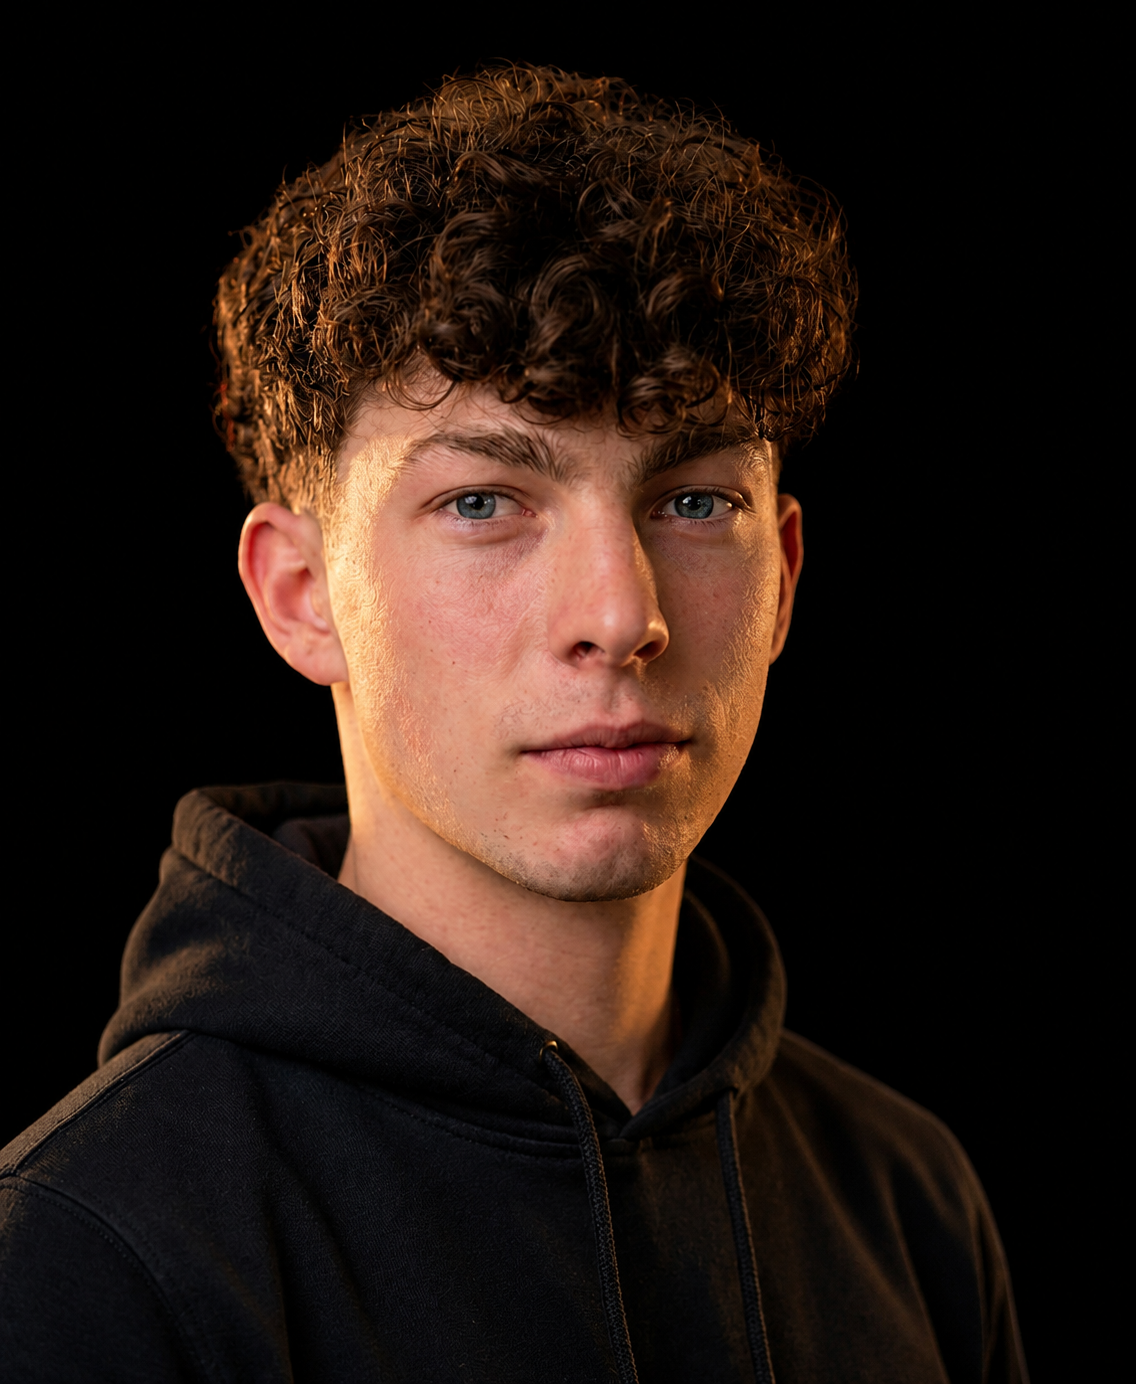
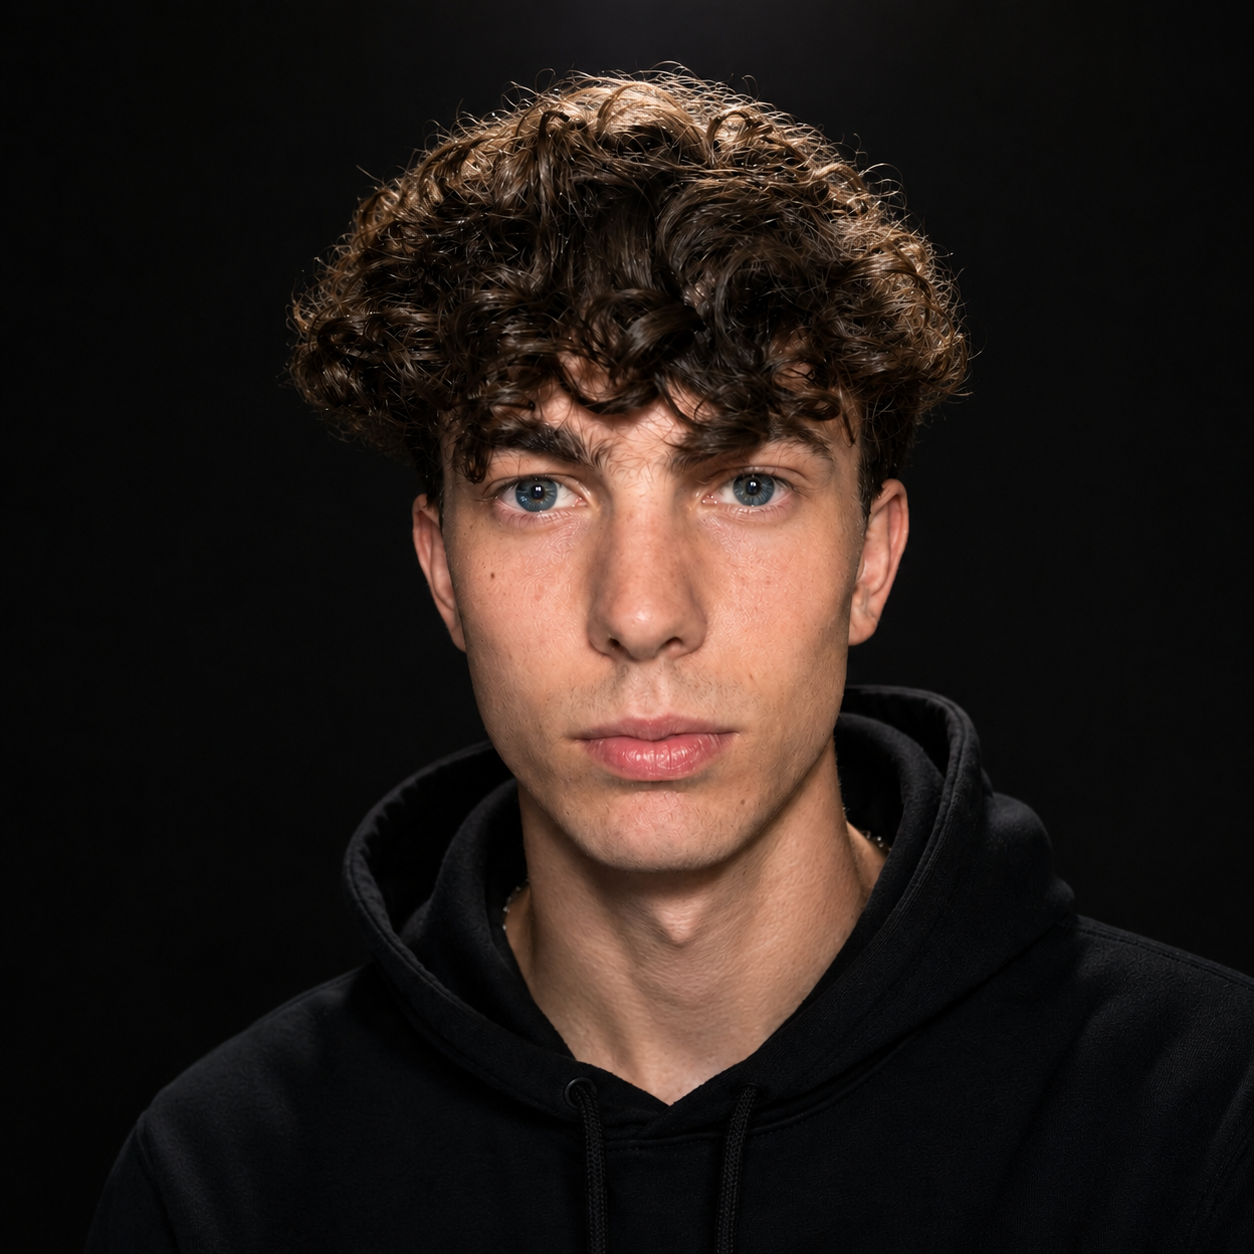
changed potrait picture
.

diff --git a/src/components/Hero.tsx b/src/components/Hero.tsx
@@ -43,10 +43,33 @@ export default function Hero() {
   };
 
   return (
-    <section id="top" className="relative overflow-hidden">
-      <div className="relative mx-auto grid max-w-7xl items-center gap-12 px-6 pb-16 pt-16 sm:pt-24 md:grid-cols-[1.05fr_0.95fr] md:gap-10 md:pb-24">
-        {/* Left: the pitch */}
-        <div>
+    <section
+      id="top"
+      className="relative flex min-h-[92vh] items-center overflow-hidden"
+    >
+      {/* Portrait as a full-bleed background, anchored right */}
+      <motion.div
+        aria-hidden
+        className="pointer-events-none absolute inset-y-0 right-0 w-full md:w-[62%]"
+        initial={reduce ? false : { opacity: 0, scale: 1.04 }}
+        animate={{ opacity: 1, scale: 1 }}
+        transition={{ duration: 1.1, ease: EASE }}
+      >
+        {/* eslint-disable-next-line @next/next/no-img-element */}
+        <img
+          src={profile.photo}
+          alt={`Portrait of ${profile.name}`}
+          className="h-full w-full object-cover object-[70%_top] contrast-[1.05] md:object-top"
+        />
+        {/* shade fading in from the left so the text stays readable */}
+        <div className="pointer-events-none absolute inset-0 bg-gradient-to-r from-bg via-bg/85 to-bg/10 md:via-bg/70 md:to-transparent" />
+        {/* grounding fade at the bottom into the marquee */}
+        <div className="pointer-events-none absolute inset-x-0 bottom-0 h-40 bg-gradient-to-t from-bg to-transparent" />
+      </motion.div>
+
+      <div className="relative mx-auto w-full max-w-7xl px-6 py-20 sm:py-28">
+        {/* the pitch */}
+        <div className="max-w-xl">
           <h1 className="font-display text-[clamp(3rem,11vw,7rem)] font-bold uppercase leading-[0.86] tracking-tight">
             <NameLine delay={0.15} reduce={reduce}>
               Flavio
@@ -123,29 +146,6 @@ export default function Hero() {
             ))}
           </motion.div>
         </div>
-
-        {/* Right: portrait */}
-        <motion.div
-          className="relative mx-auto w-full max-w-sm md:mx-0 md:ml-auto"
-          initial={reduce ? false : { opacity: 0, scale: 0.96, y: 20 }}
-          animate={{ opacity: 1, scale: 1, y: 0 }}
-          transition={{ duration: 0.9, delay: 0.35, ease: EASE }}
-        >
-          <div className="group/photo relative aspect-[4/5] overflow-hidden rounded-3xl border border-line bg-surface shadow-soft">
-            {/* eslint-disable-next-line @next/next/no-img-element */}
-            <img
-              src={profile.photo}
-              alt={`Portrait of ${profile.name}`}
-              className="h-full w-full object-cover object-top grayscale contrast-[1.08] brightness-[0.8] transition-[filter] duration-700 ease-out group-hover/photo:grayscale-0 group-hover/photo:brightness-100"
-            />
-            {/* darken toward the canvas for depth */}
-            <div className="pointer-events-none absolute inset-0 bg-gradient-to-t from-bg/80 via-bg/15 to-bg/10" />
-            {/* location chip */}
-            <div className="absolute bottom-4 left-4 rounded-full border border-line bg-bg/70 px-3 py-1 font-mono text-xs text-ink backdrop-blur">
-              {profile.location}
-            </div>
-          </div>
-        </motion.div>
       </div>
     </section>
   );

diff --git a/src/components/Footer.tsx b/src/components/Footer.tsx
@@ -10,19 +10,19 @@ export default function Footer() {
     >
       <div className="glow-radial pointer-events-none absolute inset-x-0 top-0 h-full" />
 
-      <div className="relative mx-auto max-w-7xl overflow-hidden px-6 pb-16 pt-32 sm:pt-40">
-        {/* oversized wordmark as a background watermark */}
-        <div
-          aria-hidden
-          className="pointer-events-none absolute inset-0 flex select-none flex-col items-end justify-center px-6"
-        >
-          <p className="text-right font-display text-[19vw] font-bold uppercase leading-[0.82] tracking-tighter text-ink/[0.08]">
-            Flavio
-            <br />
-            Raise
-          </p>
-        </div>
+      {/* oversized wordmark as a background watermark, flush to the page's right edge */}
+      <div
+        aria-hidden
+        className="pointer-events-none absolute inset-0 flex select-none flex-col items-end justify-center"
+      >
+        <p className="text-right font-display text-[19vw] font-bold uppercase leading-[0.82] tracking-tighter text-ink/[0.08]">
+          Flavio
+          <br />
+          Raise
+        </p>
+      </div>
 
+      <div className="relative mx-auto max-w-7xl px-6 pb-16 pt-32 sm:pt-40">
         <Reveal className="relative z-10 max-w-3xl">
           <p className="mb-5 font-mono text-xs uppercase tracking-widest text-accent">
             establish connection
@@ -65,15 +65,6 @@ export default function Footer() {
             ))}
           </div>
         </Reveal>
-      </div>
-
-      <div className="relative border-t border-line">
-        <div className="mx-auto flex max-w-7xl flex-col items-center justify-between gap-2 px-6 py-6 font-mono text-xs text-muted sm:flex-row">
-          <p>
-            © {new Date().getFullYear()} {profile.name}
-          </p>
-          <p>Mestre · Venice, IT</p>
-        </div>
       </div>
     </footer>
   );

diff --git a/src/app/globals.css b/src/app/globals.css
@@ -44,11 +44,22 @@ body {
 }
 
 /* Ambient radial light (behind contact) — neutral, very subtle */
+/* bloom anchored to the top edge (the main/footer seam), fading downward */
 .glow-radial {
   background: radial-gradient(
-    60% 55% at 50% 0%,
-    rgba(255, 255, 255, 0.05),
-    transparent 72%
+    70% 65% at 50% 0%,
+    rgba(255, 255, 255, 0.11),
+    transparent 75%
+  );
+}
+
+/* mirror of .glow-radial anchored to the bottom edge, fading upward — sits on
+   the bottom of <main> so the footer bloom continues smoothly across the seam */
+.glow-radial-up {
+  background: radial-gradient(
+    70% 100% at 50% 100%,
+    rgba(255, 255, 255, 0.11),
+    transparent 75%
   );
 }
 

diff --git a/src/app/page.tsx b/src/app/page.tsx
@@ -6,10 +6,12 @@ import Footer from "@/components/Footer";
 export default function Home() {
   return (
     <>
-      <main className="flex-1">
+      <main className="relative flex-1">
         <Hero />
         <Marquee />
         <Projects />
+        {/* mirror of the footer bloom so the glow continues across the seam */}
+        <div className="glow-radial-up pointer-events-none absolute inset-x-0 bottom-0 h-[340px]" />
       </main>
       <Footer />
     </>
